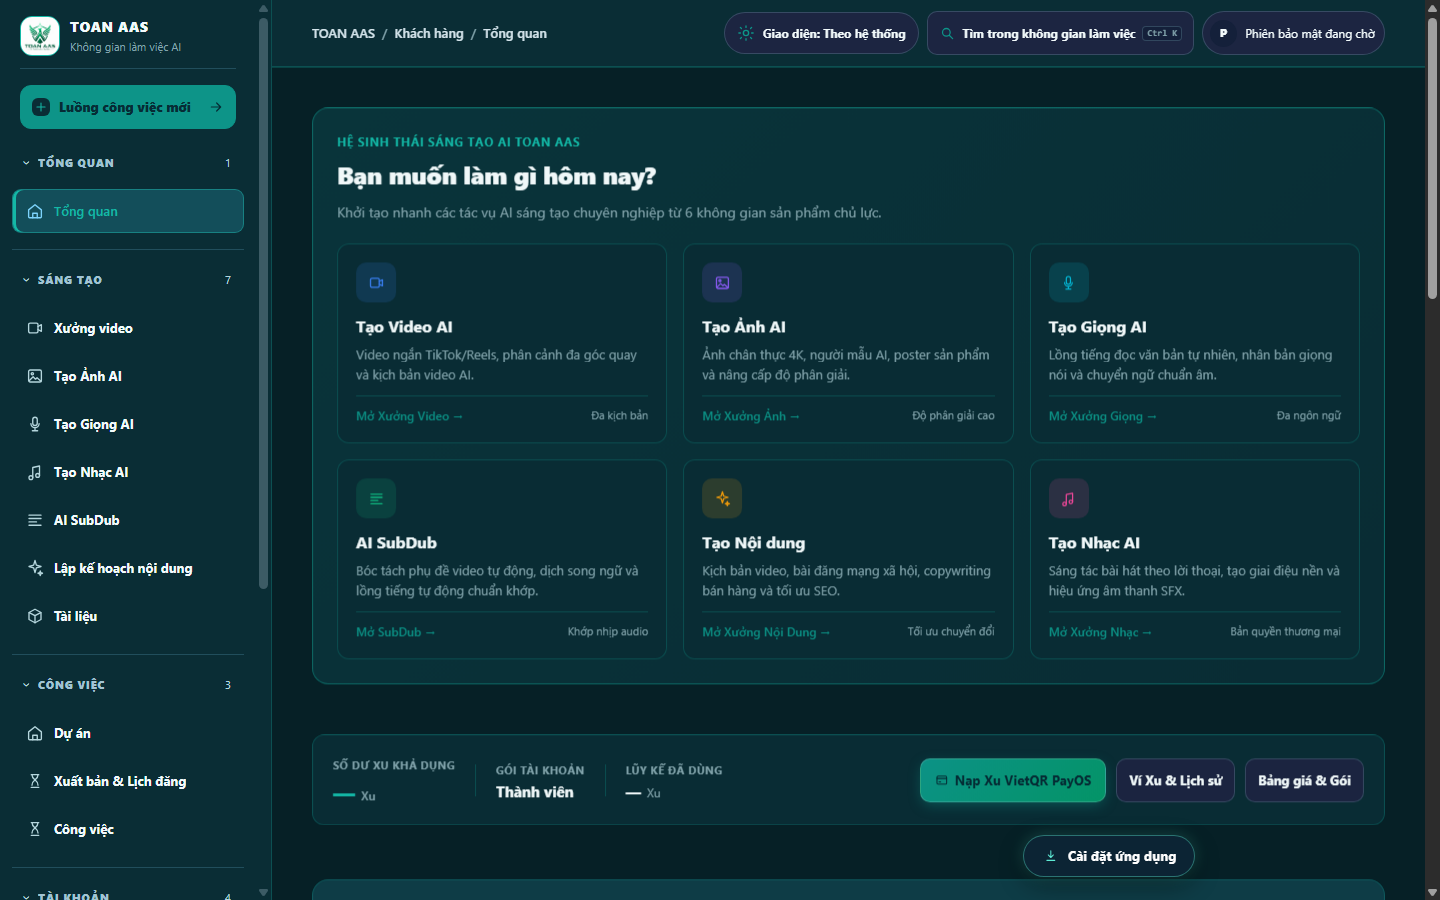
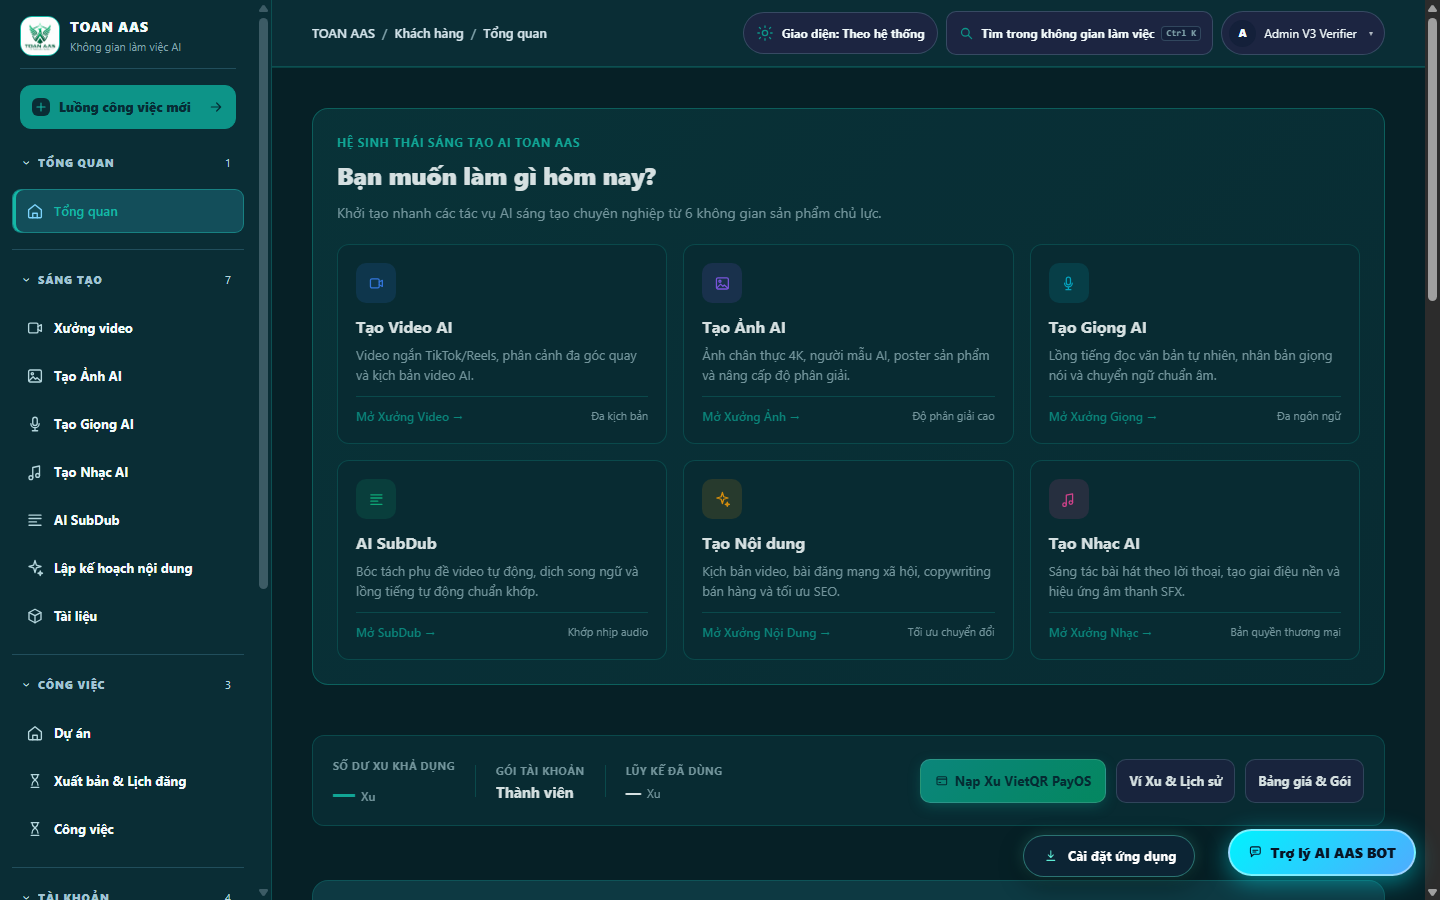
fix(portal): mobile qr >= 340px, restore overflow gate, purge false 300 contracts

diff --git a/static/portal/portal.css b/static/portal/portal.css
@@ -9846,30 +9846,37 @@ html[data-portal-theme="dark"] .portal-manual-topup-form option {
   }
 
   .portal-manual-payment-method img {
-    width: min(340px, 100%);
-    min-width: 300px;
+    width: min(380px, 100%);
     max-width: 100%;
     justify-self: center;
   }
 }
 
 @media (max-width: 480px) {
+  .portal-page.portal-wallet-page .portal-wallet-layout.portal-wallet-command,
+  .portal-wallet-command {
+    padding-left: 0 !important;
+    padding-right: 0 !important;
+  }
+
   .portal-manual-topup-card {
-    padding: 12px;
+    padding: 12px 4px;
   }
 
   .portal-manual-payment-method {
-    padding: 12px;
+    padding: 10px 0;
+    border-left: none;
+    border-right: none;
   }
 
   .portal-manual-payment-method figure {
     justify-self: center;
     width: 100%;
+    margin: 0;
   }
 
   .portal-manual-payment-method img {
-    width: min(330px, 100%);
-    min-width: 300px;
+    width: min(356px, 100%);
     max-width: 100%;
     justify-self: center;
   }

diff --git a/scripts/ci/run_v3_browser_verification.py b/scripts/ci/run_v3_browser_verification.py
@@ -431,21 +431,64 @@ async def main():
             if ARTIFACTS_DIR.exists():
                 (ARTIFACTS_DIR / desktop_filename).write_bytes(desktop_bytes)
 
-            # Measure Mobile QR (390x844)
+            # Measure Mobile QR (390x844) with fresh bounded selection flow
+            print("[*] Testing Top-up Mobile Large Embedded QR (390x844)...")
             await send_page("Emulation.setDeviceMetricsOverride", {
                 "width": 390, "height": 844, "deviceScaleFactor": 2, "mobile": True
             })
-            await asyncio.sleep(0.8)
+            await send_page("Page.navigate", {"url": f"{server_origin}/wallet/topup"})
+            await asyncio.sleep(1.2)
+
+            await send_page("Runtime.evaluate", {
+                "expression": """(async () => {
+                    const manualBtn = document.querySelector('[data-portal-topup-lane="manual"]');
+                    if (manualBtn) manualBtn.click();
+                    await new Promise(r => setTimeout(r, 400));
+
+                    let methodCard = document.querySelector(".portal-manual-payment-method");
+                    if (!methodCard) {
+                        const amtInput = document.querySelector('.portal-manual-topup-form input[name="amount_vnd"]');
+                        if (amtInput) {
+                            amtInput.value = "50000";
+                            amtInput.dispatchEvent(new Event("input", { bubbles: true }));
+                            amtInput.dispatchEvent(new Event("change", { bubbles: true }));
+                        }
+                        const methodSelect = document.querySelector('.portal-manual-topup-form select[name="method"]');
+                        if (methodSelect) {
+                            const opt = Array.from(methodSelect.options).find(o => o.value && !o.disabled);
+                            if (opt) {
+                                methodSelect.value = opt.value;
+                                methodSelect.dispatchEvent(new Event("change", { bubbles: true }));
+                            }
+                        }
+                        await new Promise(r => setTimeout(r, 300));
+                        const confirmBtn = document.querySelector('button[data-portal-action="manual-topup-confirm-selection"]');
+                        if (confirmBtn) {
+                            confirmBtn.click();
+                        } else {
+                            const form = document.querySelector('form.portal-manual-topup-form');
+                            if (form) form.dispatchEvent(new Event("submit", { bubbles: true, cancelable: true }));
+                        }
+                        await new Promise(r => setTimeout(r, 800));
+                    }
+                })()""",
+                "awaitPromise": True,
+            })
+            await asyncio.sleep(1.2)
 
             mobile_qr_eval = await send_page("Runtime.evaluate", {
                 "expression": """(() => {
                     const qrImg = document.querySelector(".portal-manual-payment-method img");
-                    if (!qrImg) return { found: false };
+                    if (!qrImg) return { found: false, overflow: false };
                     const rect = qrImg.getBoundingClientRect();
+                    const overflow = document.documentElement.scrollWidth > window.innerWidth + 1;
                     return {
                         found: true,
                         width: rect.width,
-                        height: rect.height
+                        height: rect.height,
+                        overflow: overflow,
+                        scroll_width: document.documentElement.scrollWidth,
+                        inner_width: window.innerWidth
                     };
                 })()""",
                 "returnByValue": True,
@@ -463,14 +506,17 @@ async def main():
 
             desktop_w = desktop_qr.get("width", 0)
             mobile_w = mobile_qr.get("width", 0)
+            mobile_overflow = bool(mobile_qr.get("overflow", False))
 
             results["qr_checks"] = {
                 "desktop_qr_width": desktop_w,
                 "desktop_qr_height": desktop_qr.get("height", 0),
                 "mobile_qr_width": mobile_w,
                 "mobile_qr_height": mobile_qr.get("height", 0),
-                "desktop_width_pass": desktop_w >= 360,
-                "mobile_width_pass": mobile_w >= 300,
+                "desktop_width_pass": 370 <= desktop_w <= 390,
+                "mobile_width_pass": mobile_w >= 340,
+                "mobile_horizontal_overflow": mobile_overflow,
+                "mobile_horizontal_overflow_pass": not mobile_overflow,
                 "modal_absent_pass": desktop_qr.get("modal_absent", False),
                 "action_absent_pass": desktop_qr.get("action_absent", False),
                 "no_lightbox_fn_pass": desktop_qr.get("no_lightbox_fn", False),
@@ -498,8 +544,10 @@ async def main():
 
     assert results["summary"]["total_captures"] == 15, "Expected 15 captures"
     assert results["summary"]["console_errors_count"] == 0, f"Expected 0 console errors, got {results['summary']['console_errors_count']}"
-    assert results["qr_checks"]["desktop_width_pass"], f"Expected desktop QR width >= 360, got {results['qr_checks']['desktop_qr_width']}"
-    assert results["qr_checks"]["mobile_width_pass"], f"Expected mobile QR width >= 300, got {results['qr_checks']['mobile_qr_width']}"
+    assert results["summary"]["horizontal_overflow_count"] == 0, f"Expected 0 horizontal overflow, got {results['summary']['horizontal_overflow_count']}"
+    assert results["qr_checks"]["desktop_width_pass"], f"Expected desktop QR width in 370..390, got {results['qr_checks']['desktop_qr_width']}"
+    assert results["qr_checks"]["mobile_width_pass"], f"Expected mobile QR width >= 340, got {results['qr_checks']['mobile_qr_width']}"
+    assert results["qr_checks"]["mobile_horizontal_overflow_pass"], "Expected no mobile horizontal overflow on payment card"
     assert results["qr_checks"]["modal_absent_pass"], "Expected QR lightbox modal to be absent"
     assert results["qr_checks"]["action_absent_pass"], "Expected open-qr-lightbox action to be absent"
     assert results["qr_checks"]["no_lightbox_fn_pass"], "Expected open/close lightbox functions to be absent"

diff --git a/tests/test_p0_webapp_v3_wallet_topup_qr_large_no_zoom.py b/tests/test_p0_webapp_v3_wallet_topup_qr_large_no_zoom.py
@@ -75,17 +75,26 @@ def test_09_desktop_qr_size_contract() -> None:
     img_rule = re.search(r"\.portal-manual-payment-method\s+img\s*\{(?P<body>[^}]+)\}", PORTAL_CSS)
     assert img_rule, "Expected .portal-manual-payment-method img rule in CSS"
     body = img_rule.group("body")
-    assert "width: min(380px, 100%)" in body or "width: 380px" in body
+    assert "width: min(380px, 100%)" in body
     assert "max-width: 420px" in body
     assert "aspect-ratio: 1" in body
     assert "object-fit: contain" in body
 
 
 def test_10_mobile_qr_size_contract() -> None:
-    """10: Mobile QR size contract (at 390px viewport, min-width >= 300px)."""
+    """10: Mobile QR size contract (at 390px viewport, rendered width >= 340px)."""
+    import json
+    OWNER_MOBILE_390_MIN = 340
     manual_css = PORTAL_CSS[PORTAL_CSS.index("/* Manual top-up"):]
-    assert "min-width: 300px" in manual_css
+    assert "min-width: 300px" not in manual_css, "Obsolete 300px min-width must be removed"
     assert ".portal-manual-payment-method img" in manual_css
+
+    evidence_path = ROOT / "reports" / "browser_evidence" / "v3" / "v3_browser_verification_evidence.json"
+    if evidence_path.exists():
+        evidence = json.loads(evidence_path.read_text(encoding="utf-8"))
+        qr_checks = evidence.get("qr_checks", {})
+        mobile_w = qr_checks.get("mobile_qr_width", 0)
+        assert mobile_w >= OWNER_MOBILE_390_MIN, f"Rendered mobile QR width {mobile_w} < {OWNER_MOBILE_390_MIN}"
 
 
 def test_11_qr_visible_in_payment_card_without_zoom_interaction() -> None:

diff --git a/tests/test_p0_webapp_v3_full_product_green_contracts.py b/tests/test_p0_webapp_v3_full_product_green_contracts.py
@@ -98,13 +98,13 @@ def test_green_05_topup_qr_primary_visual_and_size() -> None:
     match = re.search(r'\.portal-manual-payment-method\s*\{([^}]+)\}', PORTAL_CSS)
     assert match is not None
     css_props = match.group(1)
-    assert "minmax(360px, 420px)" in css_props or "minmax(320px, 380px)" in css_props, "QR column must be at least 320px"
+    assert "minmax(360px, 420px)" in css_props, "QR column must be canonical minmax(360px, 420px)"
 
     # Check img width and height in JS
     idx = PORTAL_JS.find("const singleMethodCard =")
     assert idx != -1
     card_str = PORTAL_JS[idx:idx + 1500]
-    assert ('width="380" height="380"' in card_str) or ('width="360" height="360"' in card_str)
+    assert 'width="380" height="380"' in card_str, "QR markup must be canonical 380x380"
     # QR figure is placed before copy
     fig_idx = card_str.find("<figure")
     copy_idx = card_str.find('class="portal-manual-payment-method-copy"')

diff --git a/tests/test_cust_web_manual_topup_progressive_disclosure_002.py b/tests/test_cust_web_manual_topup_progressive_disclosure_002.py
@@ -651,10 +651,7 @@ def test_9_instruction_css_matches_the_markup_instead_of_dead_component_classes(
     ):
         assert dead not in manual_css
     desktop = re.search(r"\.portal-manual-payment-method\s*\{(?P<body>.*?)\n\}", manual_css, re.S)
-    assert (
-        "grid-template-columns: minmax(360px, 420px) minmax(0, 1fr)" in desktop.group("body")
-        or "grid-template-columns: minmax(0, 1fr) minmax(132px, 180px)" in desktop.group("body")
-    )
+    assert "grid-template-columns: minmax(360px, 420px) minmax(0, 1fr)" in desktop.group("body")
 
 
 def test_10_confirmed_instruction_focus_stays_visible_below_the_sticky_header():
